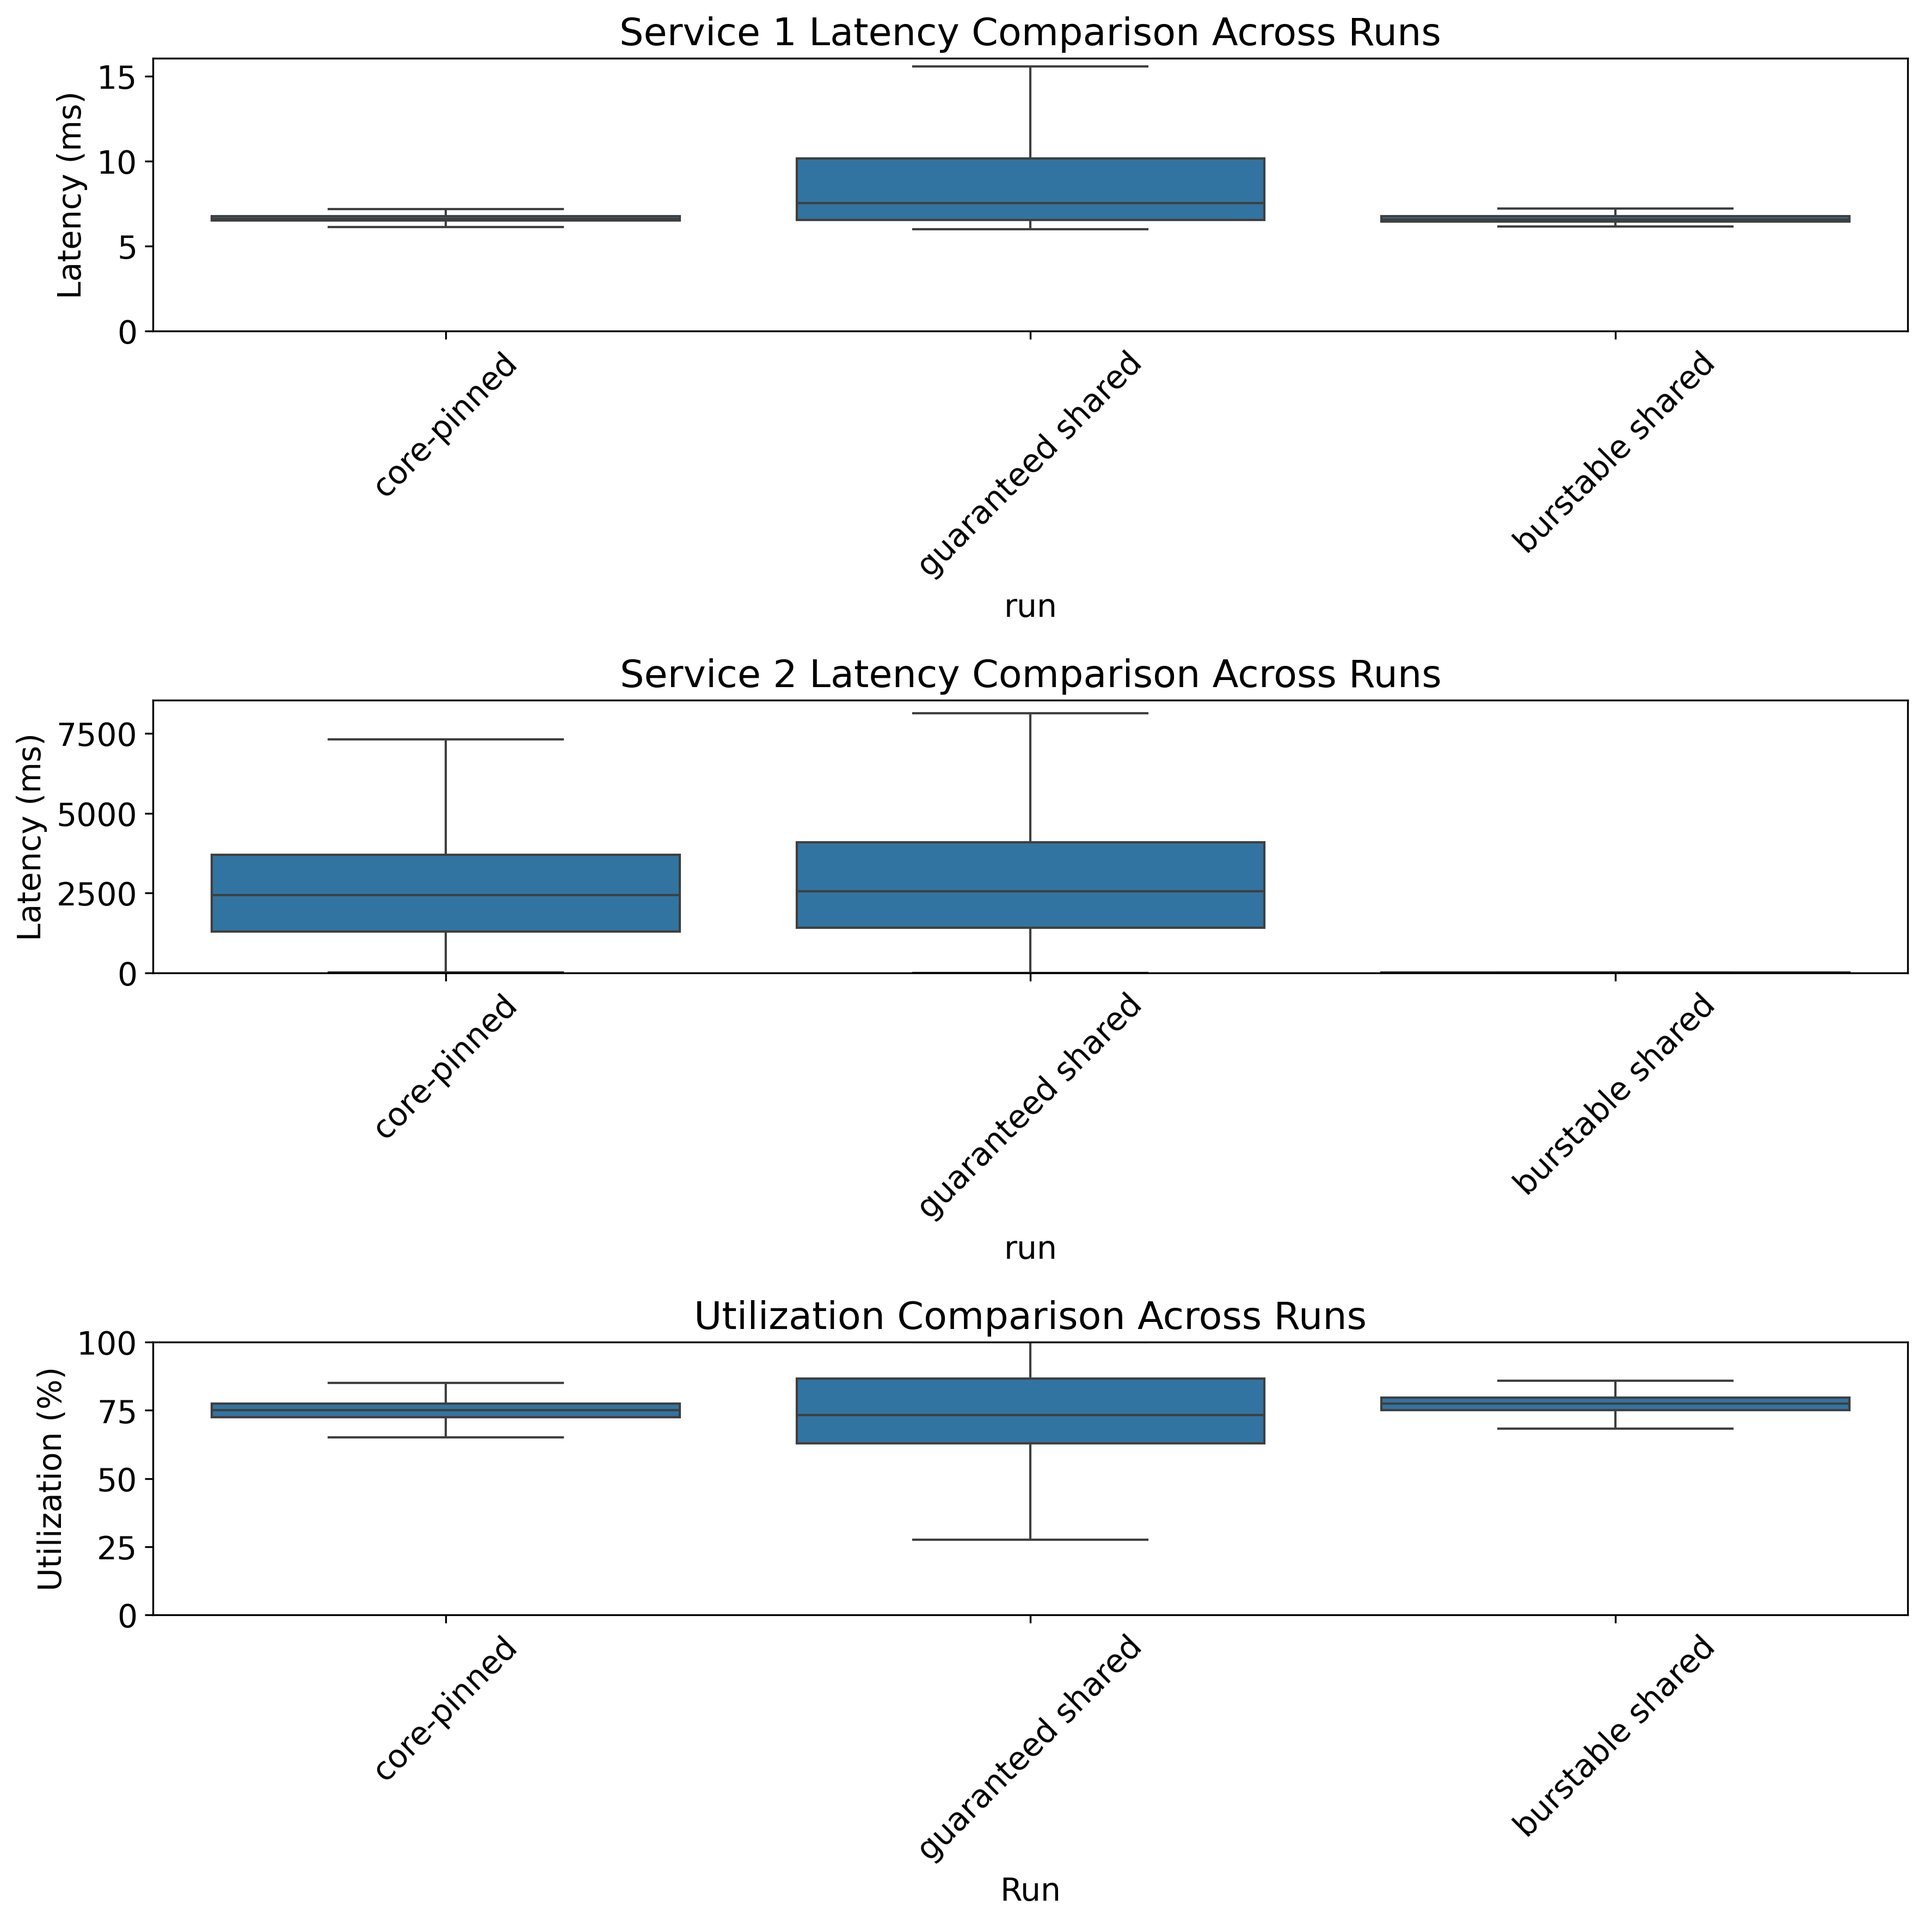
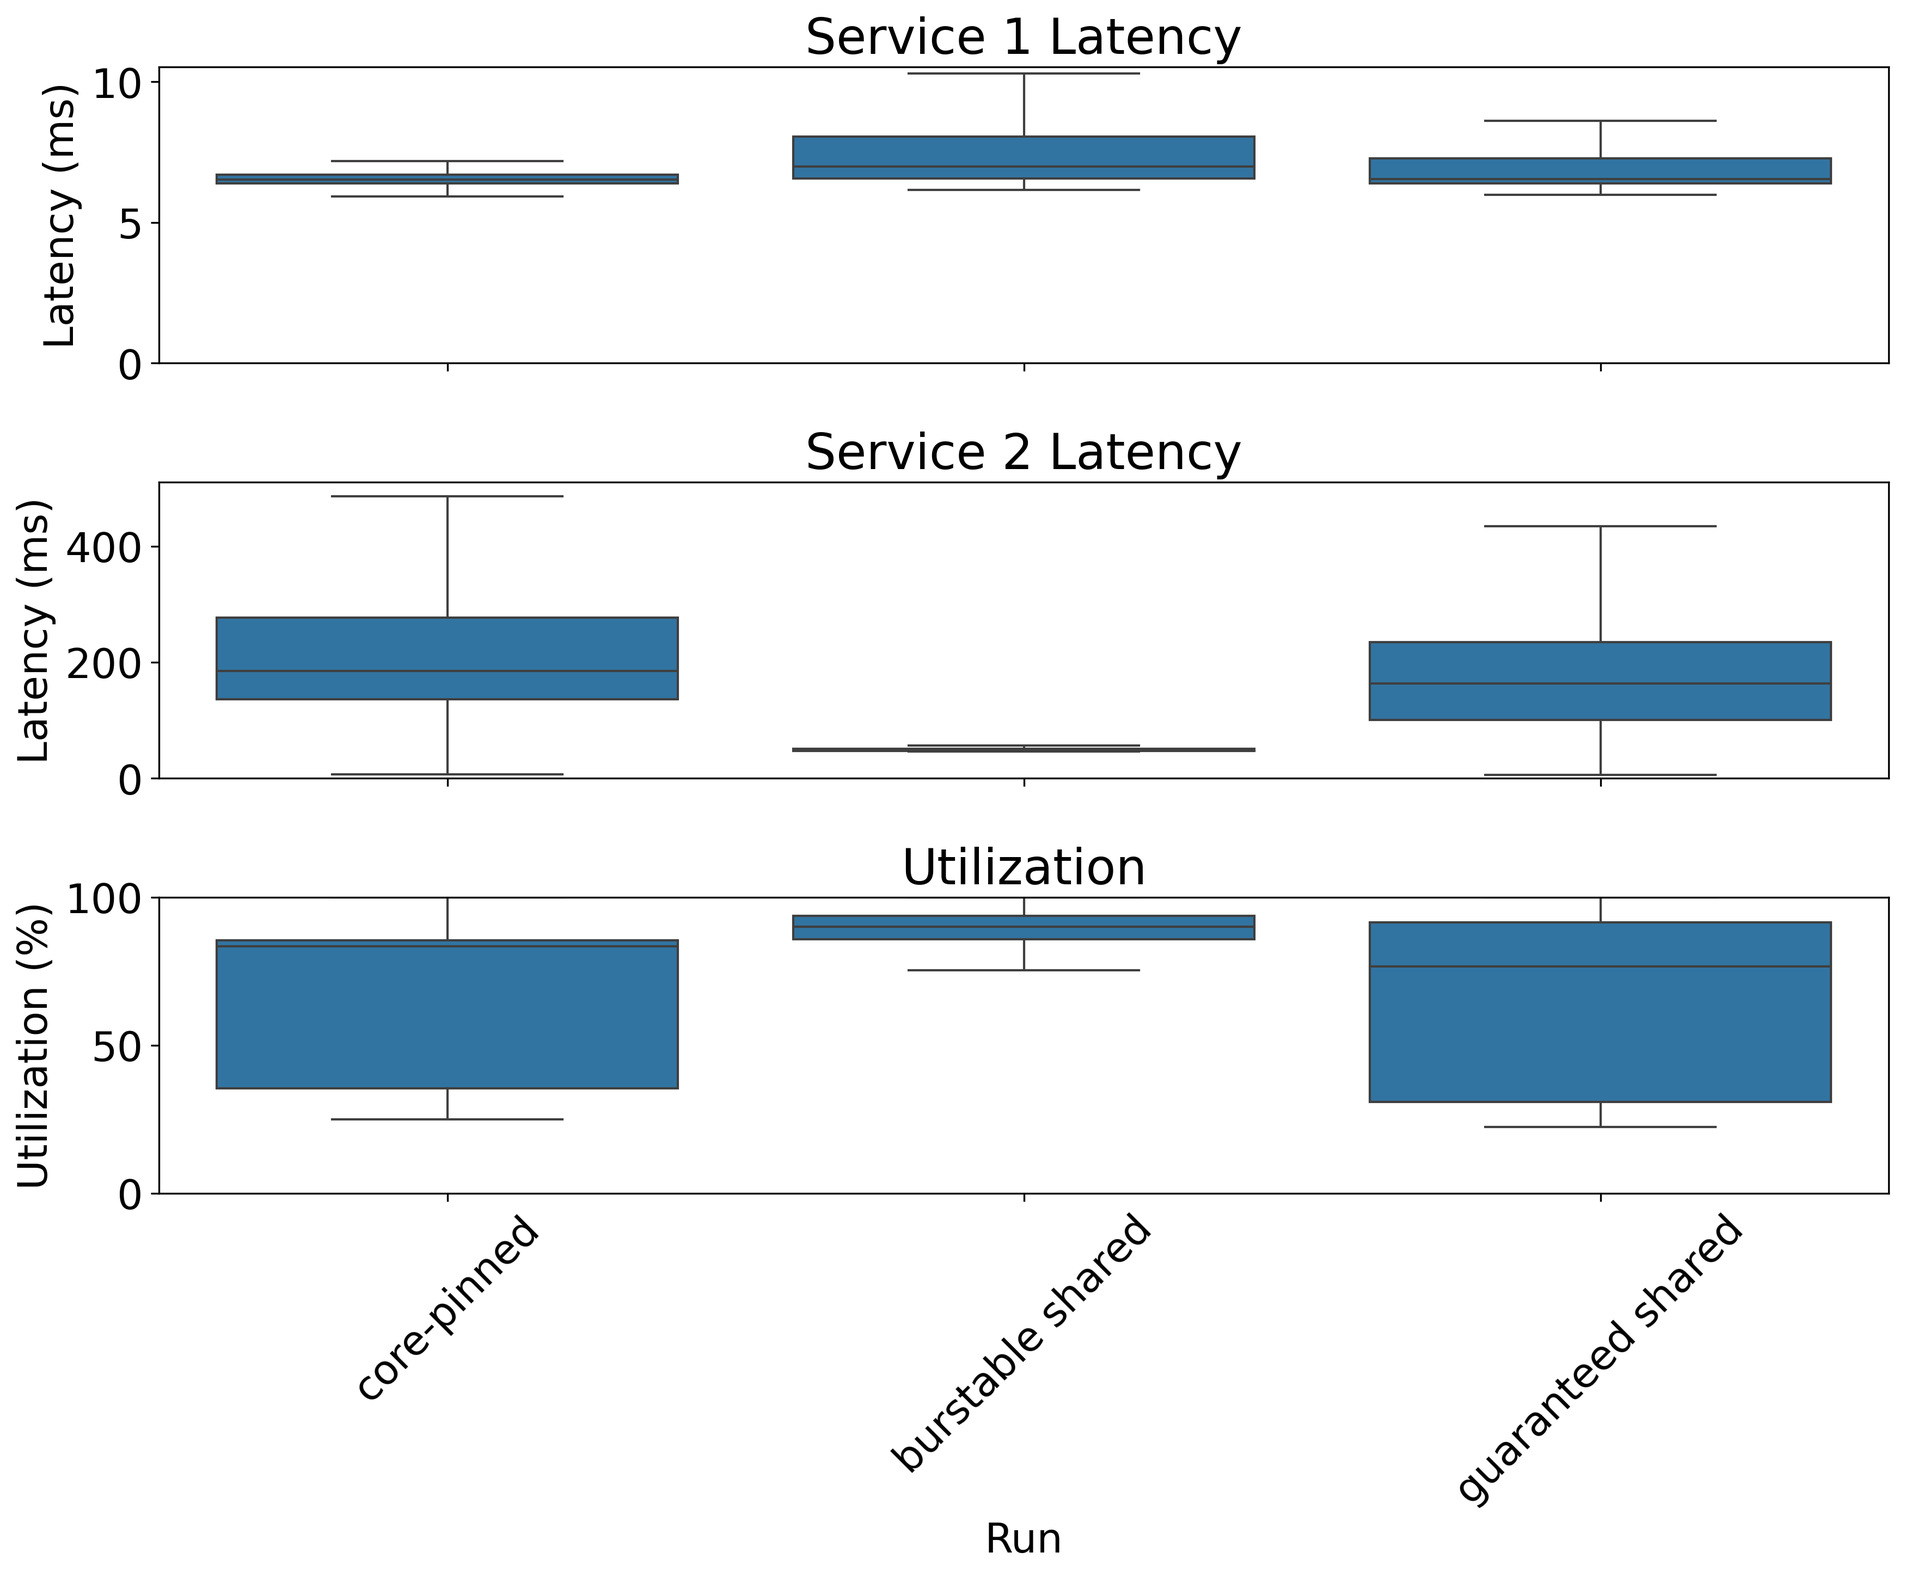
put in better graph, just have both in the intro rn

diff --git a/smth26/intro.tex b/smth26/intro.tex
@@ -51,12 +51,37 @@ than overprovisioning on guaranteed-style is pricing.
     performance}\label{fig:kubernetes-qos-cmp}
 \end{figure}
 
-However, we find that current popular scheduling systems fail to properly
-enforce reservations. We use as a case study a small but realistic social
-network web application, which we run using Kubernetes.
-\autoref{fig:kubernetes-qos-cmp} shows that running anything, even another
-guaranteed service, alongside the web server affected its end-to-end latencies,
-and that these effects go away when using core-pinning.\hmng{edited up to here}
+\begin{figure}[t]
+    \centering
+    \includegraphics[width=\columnwidth]{graphs/kubernetes-unedited.png}
+    \caption{Running a BestEffort affects the server's
+    performance}\label{fig:kubernetes-unedited}
+\end{figure}
+
+We find that current popular scheduling systems fail to properly enforce
+reservations. We use as a case study a small but realistic social network web
+application, which we run using Kubernetes. We run alongside it different other
+classes: in one experiment, we run another server in either the Guaranteed and
+Burstable class, and in another we run a best effort workload alongside the
+server. 
+
+In \autoref{fig:kubernetes-qos-cmp} we show the results of the first experiment.
+We run two servers, and compare the performance in three settings: both are
+pinned to their own cores, both running in the Guaranteed class, and the web
+server running in the Guaranteed class but the other in the Burstable class. The
+graphs show the utilization and performance benefit of using the Burstable
+class, but also show that running either class alongside the web server affected
+its end-to-end latencies.
+
+\autoref{fig:kubernetes-unedited} shows the result of running a best effort
+workload, using the BestEffort class, alongside the web server. The top graph of
+plots the end-to-end latency of an endpoint that gets a users feed and applies a
+moderation; the bottom graph shows the throughput of a best effort image resize
+job. After the image resize job starts running, the mean response latency of the
+web application jumps from $\sim$7ms to $\sim$15ms, and the 99th percentile
+latency from $\sim$10ms to $\sim$25ms.
+
+\hmng{edited up to here}
 
 Understanding why Kubernetes fails to honor the web application's reservation
 requires looking at the underlying mechanism enforcing the CPU reservation:
